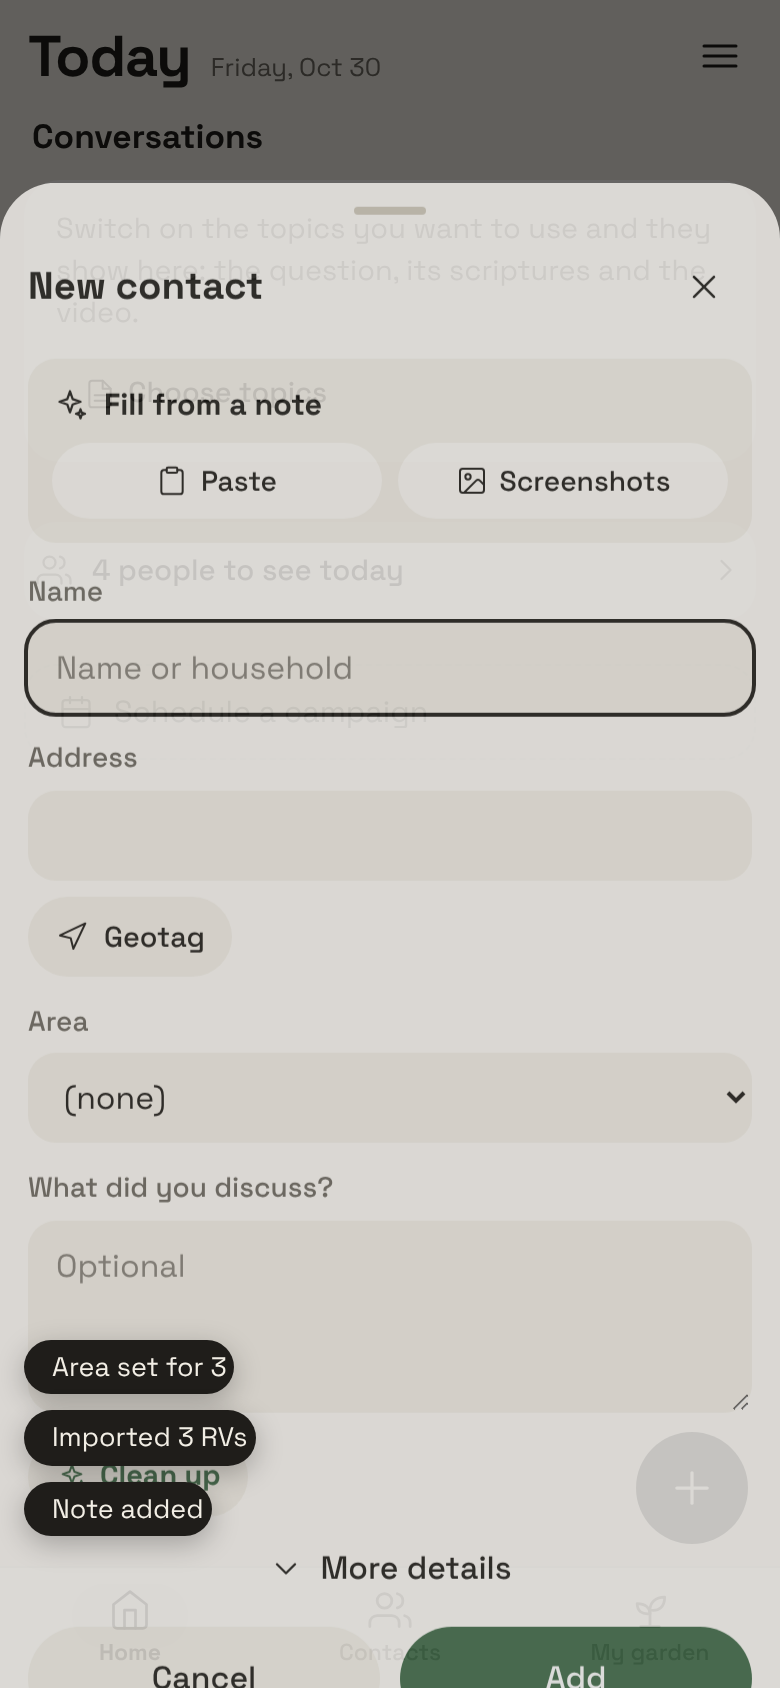
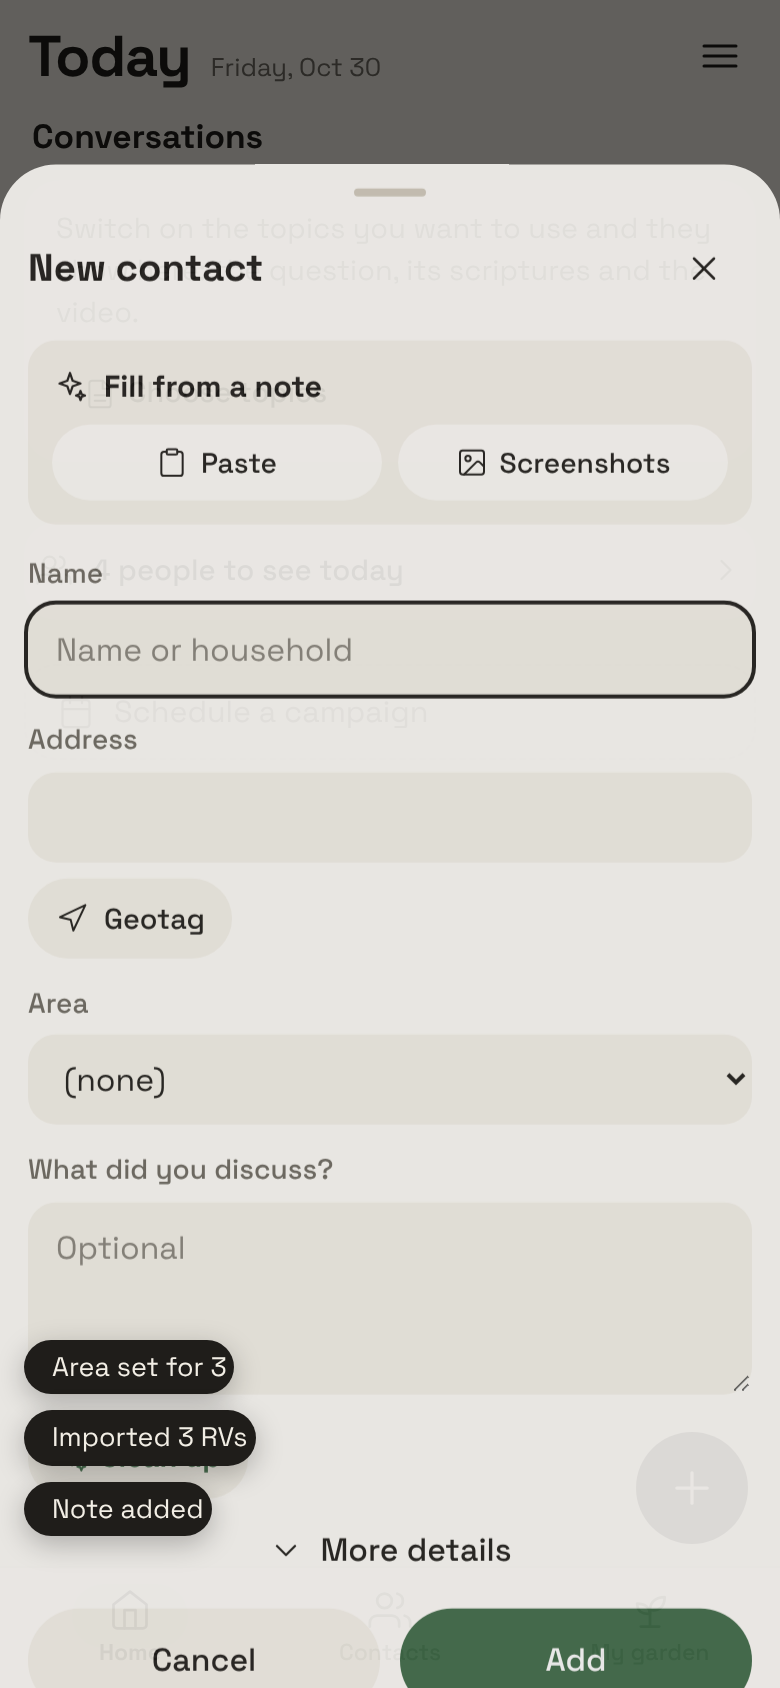
v2.44.0: Clean up wherever a visit or the person is written about
Claude-Session: https://claude.ai/code/session_011RbzVtqyp6tUUPe6TLVsus

diff --git a/js/forms.js b/js/forms.js
@@ -143,6 +143,12 @@
     return btn;
   }
 
+  // v2.44: Clean up under every field that records a visit or something about the person (not on short fields)
+  function cleanupRow(text, nextField, onAvail) {
+    const b = cleanupButton(text, nextField, onAvail);
+    return b ? h('div', { class: 'note-tools' }, b) : null;
+  }
+
   // ---------- add / edit RV ----------
   // One form. New: Name, Address, Area and "What did you discuss?", with More details expanding the rest in place.
   // Filled in for a new contact: Initial Call, House to house, today as a best day, the running campaign.
@@ -258,9 +264,11 @@
         h('div', { class: isClosed ? '' : 'two' }, isClosed ? null : field('Stage', f.stage), field('How we met', f.howMet)),
         studyBox,
         field('Household notes', f.notes),
+        cleanupRow(f.notes, null),
         draft ? visitsBox(draft.visits, draft.nextVisit, 'From the note, added on import') : null,
         h('div', { class: 'field' }, h('div', { class: 'lbl' }, 'Best days to find them home'), bestDays.el),
         nextField,
+        isNew ? null : (() => { const r = cleanupRow(f.whatsNext, null); if (r) r.classList.add('nexttools'); return r; })(),
         field('Tags', f.tags),
         customInputs.map((ci) => field(ci.c.name, ci.input)),
         camp ? h('label', { class: 'check' }, campOn, 'Part of the ' + camp.title + ' campaign') : null,
@@ -725,5 +733,5 @@
           h('button', { class: 'btn primary', type: 'submit' }, 'Save'))));
   }
 
-  RV.forms = { importStageOptions, addressSheet, afterVisit, cleanupButton, areaPicker, studyEdit, rvForm, quickAdd, visitDialog, stageFlow, archiveFlow, restoreFlow, snoozeSheet, select, stageOptions };
+  RV.forms = { importStageOptions, addressSheet, afterVisit, cleanupButton, cleanupRow, areaPicker, studyEdit, rvForm, quickAdd, visitDialog, stageFlow, archiveFlow, restoreFlow, snoozeSheet, select, stageOptions };
 })(window);

diff --git a/js/ui-core.js b/js/ui-core.js
@@ -91,6 +91,7 @@
           onsubmit: (e) => { e.preventDefault(); answered = true; resolve(input.value); close(); },
         },
           o.label ? h('div', { class: 'field' }, h('label', null, o.label), input) : h('div', { class: 'field' }, input),
+          o.cleanup && RV.forms && RV.forms.cleanupRow ? RV.forms.cleanupRow(input, null) : null, // v2.44
           h('div', { class: 'actions' },
             h('button', { class: 'btn', type: 'button', onclick: () => close() }, 'Cancel'),
             h('button', { class: 'btn primary', type: 'submit' }, o.okText || 'Save'))),
@@ -224,6 +225,7 @@
         studySw,
         studyBox,
         field('Notes', text),
+        !isStage && RV.forms && RV.forms.cleanupRow ? RV.forms.cleanupRow(text, null) : null, // v2.44
         isStage ? null : field('When', when),
         camp ? h('label', { class: 'check' }, campOn, 'Part of the ' + camp.title + ' campaign') : null,
         h('div', { class: 'actions' },

diff --git a/js/screens.js b/js/screens.js
@@ -825,7 +825,7 @@
     // v2.36.2: the newest note, a visit's or a study's, shows at the top for everyone (studies used to hide it)
     const lastVisit = it.entries.find((e) => e.type === 'visit' && e.text);
     const editNext = async () => {
-      const t = await UI.textPrompt({ title: 'Discuss next time', multiline: true, value: rv.whatsNext || '', placeholder: 'Bring next time' });
+      const t = await UI.textPrompt({ title: 'Discuss next time', multiline: true, cleanup: true, value: rv.whatsNext || '', placeholder: 'Bring next time' });
       if (t !== null) ST.updateRv(rv.id, { whatsNext: t.trim() });
     };
     // v2.41: the topic last used with them, and the next part of its series

diff --git a/sw.js b/sw.js
@@ -1,7 +1,7 @@
 /* Service worker: caches the app so it opens with no signal.
    IMPORTANT: change CACHE (for example rvapp-v2) every time you publish a new version of any file,
    so phones pick up the update as one consistent set. */
-const CACHE = 'rvapp-v96';
+const CACHE = 'rvapp-v97';
 const ASSETS = [
   './',
   './index.html',

diff --git a/js/app.js b/js/app.js
@@ -2,7 +2,7 @@
 (function (root) {
   'use strict';
   const RV = (root.RV = root.RV || {});
-  RV.VERSION = '2.43.0';
+  RV.VERSION = '2.44.0';
   const { h, icon } = RV.dom;
   const U = RV.util, L = RV.logic, ST = RV.store, UI = RV.ui;
   const S = ST.S;

diff --git a/tests/ai_cleanup.py b/tests/ai_cleanup.py
@@ -236,6 +236,23 @@ with sync_playwright() as p:
     n_helper = len(pseen)
     p2.click('.sheet .btn.cleanup'); p2.wait_for_selector('.toast:has-text("Cleaned up")')
     check(len(pseen) == n_helper and seen[-1]['headers'].get('x-api-key') == KEY, 'went direct with own key')
+    print('v2.44: Clean up wherever a visit or the person is written about')
+    p2.click('.sheet button:has-text("Save visit")'); time.sleep(0.6)
+    p2.evaluate("document.querySelectorAll('.grow-ov, .evo-ov, .overlay').forEach(e => e.remove())")
+    p2.evaluate(f'RV.forms.rvForm(RV.store.rvById("{r2}"))'); p2.wait_for_selector('.sheet textarea')
+    check(p2.locator('.sheet .btn.cleanup').count() == 2, 'Edit contact: Clean up under Household notes and under Discuss next time (%d)' % p2.locator('.sheet .btn.cleanup').count())
+    p2.locator('.sheet .field:has-text("Household notes") textarea').fill('has two kids works nights')
+    mode.update(status=200, reply=json.dumps({'note': 'Has two kids. Works nights.', 'discussNext': ''}))
+    p2.locator('.sheet .note-tools .btn.cleanup').first.click(); p2.wait_for_selector('.toast:has-text("Cleaned up")')
+    check(p2.locator('.sheet .field:has-text("Household notes") textarea').input_value() == 'Has two kids. Works nights.', 'household notes are cleaned in place')
+    p2.click('.sheet button:has-text("Cancel")'); time.sleep(0.3)
+    eid = p2.evaluate(f'RV.store.itemFor("{r2}").entries.find(e => e.type === "visit").id')
+    p2.evaluate(f'RV.ui.editEntrySheet("{eid}")'); p2.wait_for_selector('.sheet textarea')
+    check(p2.locator('.sheet .btn.cleanup').count() == 1, 'editing a visit has Clean up')
+    p2.click('.sheet button:has-text("Cancel")'); time.sleep(0.3)
+    p2.goto(URL + '#/rv/' + r2); p2.wait_for_selector('.snap-row.next')
+    p2.click('.snap-row.next'); p2.wait_for_selector('.sheet textarea')
+    check(p2.locator('.sheet .btn.cleanup').count() == 1, 'Discuss next time on the record has Clean up')
     ctx2.close()
 
     check(not errors, 'no console errors' + ('' if not errors else ': ' + '; '.join(errors[:3])))

diff --git a/docs/HANDOVER.md b/docs/HANDOVER.md
@@ -1,4 +1,4 @@
-# Groundwork handover (2026-10-30, after v2.43.0)
+# Groundwork handover (2026-10-30, after v2.44.0)
 
 Read this first in a new chat, then claude/design-doc.md (the full design history, sections 1–54) for detail. This file is the current state; it is rewritten whenever anything changes.
 
@@ -60,10 +60,10 @@ Read this first in a new chat, then claude/design-doc.md (the full design histor
 - **Mark's steps:** Cloudflare › Workers › Create `groundwork-ai`, paste worker/ai-proxy.js, Deploy; Storage › KV › create `groundwork-ai-limits`; Worker › Bindings › KV namespace, variable name `LIMITS`; Variables: `ANTHROPIC_API_KEY` (Secret), `ALLOWED_ORIGIN` (Text) = https://mygroundwork.app; Deploy; set a monthly spend limit in the Claude Console. Then a console check from mygroundwork.app: `fetch('https://groundwork-ai.swingtreecactus.workers.dev/v1/messages',{method:'POST',headers:{'content-type':'application/json','x-groundwork-install':'test0000test0000'},body:JSON.stringify({model:'claude-haiku-5-5',max_tokens:20,messages:[{role:'user',content:'Reply with OK.'}]})}).then(r=>r.json()).then(console.log)`.
   - If his workers.dev subdomain differs, change `aiProxy` and release.
 
-## Tests (all passing at v2.43.0)
+## Tests (all passing at v2.44.0)
 - `timeout 900 python3 -I tests/smoke.py /tmp/out/shots` (326; needs /tmp/out to exist)
 - `python3 -I tests/screens.py . /tmp/out/scr` (60)
-- `python3 -I tests/drive_folder.py` (37; occasionally flaky, rerun), `python3 -I tests/ai_cleanup.py` (44)
+- `python3 -I tests/drive_folder.py` (37; occasionally flaky, rerun), `python3 -I tests/ai_cleanup.py` (48)
 - `python3 -I tests/kinds.py . /tmp/out/k` (23)
 - `node tests/garden.test.js` (49), `node tests/logic.test.js` (53), `node tests/worker.test.mjs` (6), `node tests/ai-proxy.test.mjs` (8), `node tests/notes.test.js` (7), `node tests/topics.test.js` (6), `python3 -I tests/notes_import.py` (39)
 - Gotchas:
@@ -93,6 +93,7 @@ Read this first in a new chat, then claude/design-doc.md (the full design histor
 - v2.36.2: study notes get Clean up and the full-screen writing view; the newest note ("Last study") shows at the top of a study record.
 - v2.37.0: study track (three studies in all grow any RV straight into the tree), growth and reveal moments slower and held until tapped, cleanup meaning check with "Worth a look" phrases.
 - v2.37.1: Dark mode switch at the top of the menu.
+- v2.44.0: Clean up on every field that records a visit or the person: Edit contact (household notes, Discuss next time), timeline entry edits, Discuss next time on the record.
 - v2.43.0: dot-matrix font (Doto) retired; titles and big numbers in Space Grotesk bold.
 - v2.42.0: new app icon, the happy pot (terracotta pot, sprout, content face) on garden green; brand guide section 3 rewritten.
 - v2.41.1: View all doesn't pop the keyboard; "Schedule a campaign" (campaigns come from the organization).

diff --git a/docs/DESIGN.md b/docs/DESIGN.md
@@ -712,3 +712,15 @@ Tests unchanged and passing (smoke 326, screens 60). VERSION 2.42.0, cache rvapp
 Reviewed with a before/after mockup (Today, Contacts, the garden's This week card). The Doto dot-matrix face belonged to the earlier black-white-red look; beside the warm palette and the happy-pot icon it read faint and cold, and it was hard to read at a glance (the garden title nearly vanished against the night sky). Now `--font-dot` points at Space Grotesk, and titles and big numbers are Space Grotesk bold, tightened slightly (title 1.8rem, -0.02em; numbers -0.03em). The Doto font file is removed from fonts/ and from the service worker's precache; LICENSE-OFL.txt now credits Space Grotesk and Space Mono. Brand guide section 5 updated.
 
 Tests unchanged and passing (smoke 326, screens 60). VERSION 2.43.0, cache rvapp-v96.
+
+## 57. v2.44.0 Clean up everywhere a visit or the person is written about (built 2026-10-30)
+
+Mark: Clean up wasn't everywhere he expected; it should be on every field that records a visit or details about the person (not on short fields), visible in every view.
+
+Before, it was only under the note in New contact and in Record a visit / Log a study. Now also:
+- Edit contact (and Edit details on an imported draft): under Household notes and under Discuss next time.
+- Editing a timeline entry (visit, note, Not home): under its notes.
+- Discuss next time opened from the record: under the text.
+A shared `RV.forms.cleanupRow(text, next)` puts the button in a `.note-tools` row under the field; `UI.textPrompt({ cleanup: true })` adds it to a prompt. Where there is no separate Discuss next time field it proofreads the text only (next-time items are copied, never moved, so nothing is lost). Short fields (name, address, phone, publication, lesson, tags) have none. It shows whenever cleanup is available, which is always with the shared helper.
+
+Tests: ai_cleanup 48 (new: Edit contact has two, household notes clean in place, entry edit, Discuss next time on the record); others unchanged. VERSION 2.44.0, cache rvapp-v97.
